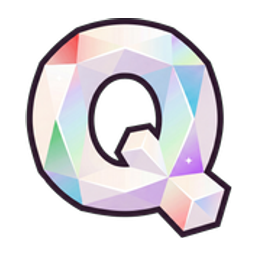
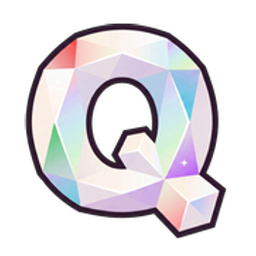
fix(qc): symbol normalization v2 (alpha-centroid centering + uniform box, WILD/SCAT ratio equalized); dragon windup = coiled charge in place (pull-back removed); win lines faster+flowier (draw 185/hold 500/flow 1.15, breath 620); win line emerges from BEHIND the frame border (board-rect mask + offsc

diff --git a/frontend/apps/prism-path/src/components/WinLines.svelte b/frontend/apps/prism-path/src/components/WinLines.svelte
@@ -30,20 +30,20 @@
 	const board = () => context.stateGame.board;
 
 	// ---- feel tunables ----
-	const DRAW_MS = 260; // sweep-on (left -> right through the winning cells)
-	const HOLD_MS = 620; // streaming hold (matches the symbol breath underneath)
-	const FADE_MS = 150; // release
+	const DRAW_MS = 185; // sweep-on (left -> right through the winning cells)
+	const HOLD_MS = 500; // streaming hold (matches the symbol breath underneath)
+	const FADE_MS = 120; // release
 	const LINE_W = 11; // core line width (px)
-	const FLOW_HZ = 0.8; // gradient stream speed while held
+	const FLOW_HZ = 1.15; // gradient stream speed while held (flowy)
 	const CHUNK = 13; // px per gradient chunk
-	const POP_MS = 170; // value pop-in (impact right as the sweep completes)
+	const POP_MS = 150; // value pop-in (impact right as the sweep completes)
 	const POP_FONT = 40;
 	const MULT_FONT = 32;
 	const MULT_Y = 40; // the xN sits under the value before merging into it
-	const MULT_BEAT_MS = 170; // read beat: value + xN visible together
-	const MERGE_MS = 300; // xN collapses in while the value rolls to the full amount
-	const PUNCH_MS = 170; // impact punch when the full value lands
-	const HOLD_MULT_MS = 960; // longer hold for multiplied lines (pop+beat+merge+punch)
+	const MULT_BEAT_MS = 140; // read beat: value + xN visible together
+	const MERGE_MS = 260; // xN collapses in while the value rolls to the full amount
+	const PUNCH_MS = 150; // impact punch when the full value lands
+	const HOLD_MULT_MS = 820; // longer hold for multiplied lines (pop+beat+merge+punch)
 
 	let line = $state({
 		show: false,
@@ -74,9 +74,9 @@
 			// the value sits at the centroid of the WINNING cells (before the edge anchor)
 			const cx = cells.reduce((s, p) => s + p.x, 0) / cells.length;
 			const cy = cells.reduce((s, p) => s + p.y, 0) / cells.length;
-			// paylines read left-to-right: launch the line FROM the board's left edge (tucked
-			// just under the frame) into the first winning symbol
-			const pts = [{ x: -SYMBOL_SIZE * 0.04, y: cells[0].y }, ...cells];
+			// paylines read left-to-right: the line launches from BEHIND the frame border (the
+			// board-rect mask clips it, so it slides out from under the frame into the board)
+			const pts = [{ x: -SYMBOL_SIZE * 0.6, y: cells[0].y }, ...cells];
 
 			const hasMult = multiplier > 1;
 			const holdMs = hasMult ? HOLD_MULT_MS : HOLD_MS;

diff --git a/frontend/apps/prism-path/src/components/PrismBeastTravel.svelte b/frontend/apps/prism-path/src/components/PrismBeastTravel.svelte
@@ -49,12 +49,11 @@
 
 	// ---- feel tunables (dial these) ----
 	const DRAGON_SCALE = 1.36; // projectile is bigger than the wilds it leaves
-	const WINDUP_MS = 155; // anticipation: rear back before the push
+	const WINDUP_MS = 120; // anticipation: a coiled charge IN PLACE (no pull-back — pure push)
 	const PER_CELL_MS = 78; // flow speed
 	const TRAVEL_MIN_MS = 175;
 	const BURST_MS = 400; // head pushes off the edge; ribbon holds the line then drains
 	const STRETCH = 0.6; // squash-stretch amount at peak flow (the "push")
-	const REAR_BACK = 0.2; // how far it pulls back during wind-up (x symbol)
 	const EXIT_PUSH = 1.5; // head flies fully OFF the board on the burst (x symbol)
 	// ribbon
 	const TRAIL_W_HEAD = 0.56;
@@ -144,12 +143,13 @@
 				trail.phase = (el / 1000) * TRAIL_FLOW_HZ;
 
 				if (el < WINDUP_MS) {
-					// ANTICIPATION — fade in, pull back opposite the fire direction, coil up.
+					// ANTICIPATION — a coiled charge IN PLACE: fade in + compress along the fire
+					// axis (loading the spring), then everything releases FORWARD. No pull-back.
 					const wp = EASE.load(clamp01(el / WINDUP_MS));
 					dragon.alpha = wp;
-					dragon.x = origin.x - dv.x * REAR_BACK * SYMBOL_SIZE * wp;
-					dragon.y = origin.y - dv.y * REAR_BACK * SYMBOL_SIZE * wp;
-					applyStretch(-0.12 * wp);
+					dragon.x = origin.x;
+					dragon.y = origin.y;
+					applyStretch(-0.16 * wp);
 					glowAlpha = 0.5 * wp;
 				} else if (el < WINDUP_MS + travelMs) {
 					// PUSH + FLOW — launch along the path, gradient ribbon streaming behind.

diff --git a/frontend/apps/prism-path/src/components/Board.svelte b/frontend/apps/prism-path/src/components/Board.svelte
@@ -14,6 +14,7 @@
 <script lang="ts">
 	import { waitForResolve } from 'utils-shared/wait';
 	import { BoardContext } from 'components-shared';
+	import { Container, Rectangle } from 'pixi-svelte';
 
 	import { getContext } from '../game/context';
 	import BoardContainer from './BoardContainer.svelte';
@@ -60,7 +61,16 @@
 		<BoardContainer>
 			<BoardBase />
 			<StickyDragonMarkers />
-			<WinLines />
+			<!-- win lines clip EXACTLY at the board rect so the line slides out from UNDER the
+			     frame border (its start sits behind the frame, off the visible board) -->
+			<Container>
+				<Rectangle
+					isMask
+					width={context.stateGameDerived.boardLayout().width}
+					height={context.stateGameDerived.boardLayout().height}
+				/>
+				<WinLines />
+			</Container>
 			<PrismBeastTravel />
 		</BoardContainer>
 	</BoardContext>

diff --git a/frontend/apps/prism-path/src/game/constants.ts b/frontend/apps/prism-path/src/game/constants.ts
@@ -93,8 +93,9 @@ export const SYMBOL_INFO_MAP = {
 	H2: spriteAll('H2'),
 	H3: spriteAll('H3'),
 	H4: spriteAll('H4'),
-	WILD: spriteAll('WILD', { width: 1.0, height: 1.0 }),
-	SCAT: spriteAll('SCAT', { width: 1.0, height: 1.0 }),
+	// same ratio as every other symbol — the set reads as ONE proportionate family
+	WILD: spriteAll('WILD'),
+	SCAT: spriteAll('SCAT'),
 } as const;
 
 export const SCATTER_LAND_SOUND_MAP = {

diff --git a/frontend/apps/prism-path/src/components/WildTrailSymbol.svelte b/frontend/apps/prism-path/src/components/WildTrailSymbol.svelte
@@ -29,7 +29,7 @@
 
 	// The symbol pipeline awaits oncomplete. On WIN the trail brightens (winBoost) and holds
 	// for the same beat as the sprite breath so an all-wild line still paces the sequence.
-	const WIN_HOLD_MS = 780;
+	const WIN_HOLD_MS = 620;
 	$effect(() => {
 		if (props.state === 'win') {
 			const id = setTimeout(() => props.oncomplete?.(), WIN_HOLD_MS);

diff --git a/frontend/apps/prism-path/src/components/SymbolSprite.svelte b/frontend/apps/prism-path/src/components/SymbolSprite.svelte
@@ -17,7 +17,7 @@
 
 	// WIN state = a subtle two-pulse breath (anticipation of the line light passing through);
 	// oncomplete fires when the breath settles, which is what paces the win-line sequence.
-	const BREATH_MS = 780;
+	const BREATH_MS = 620;
 	const BREATH_AMP = 0.065;
 
 	let breath = $state(1);
